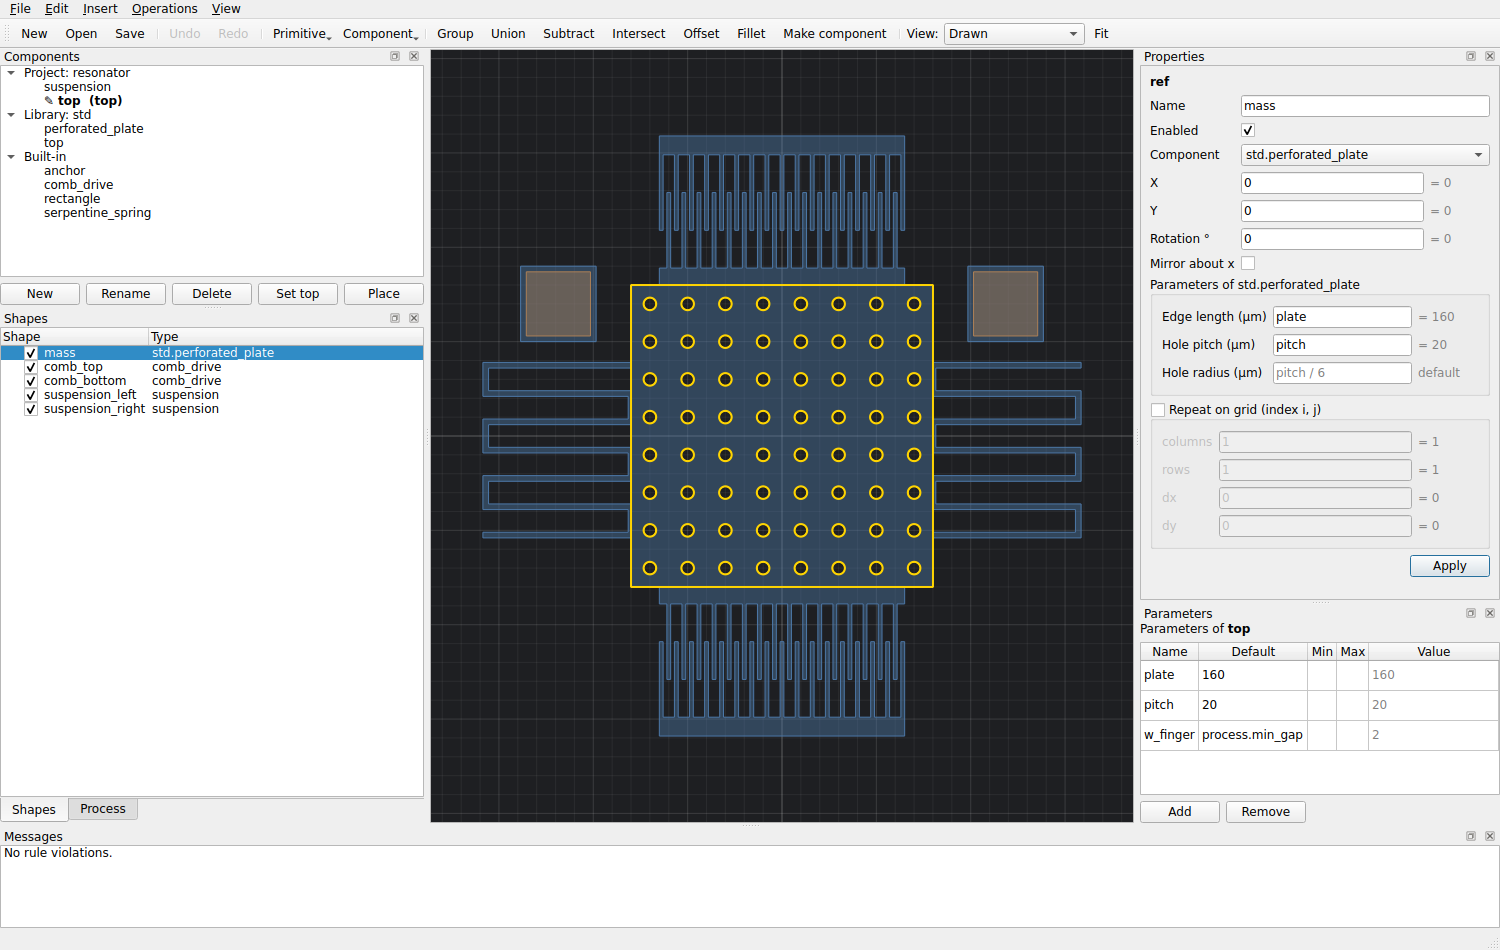
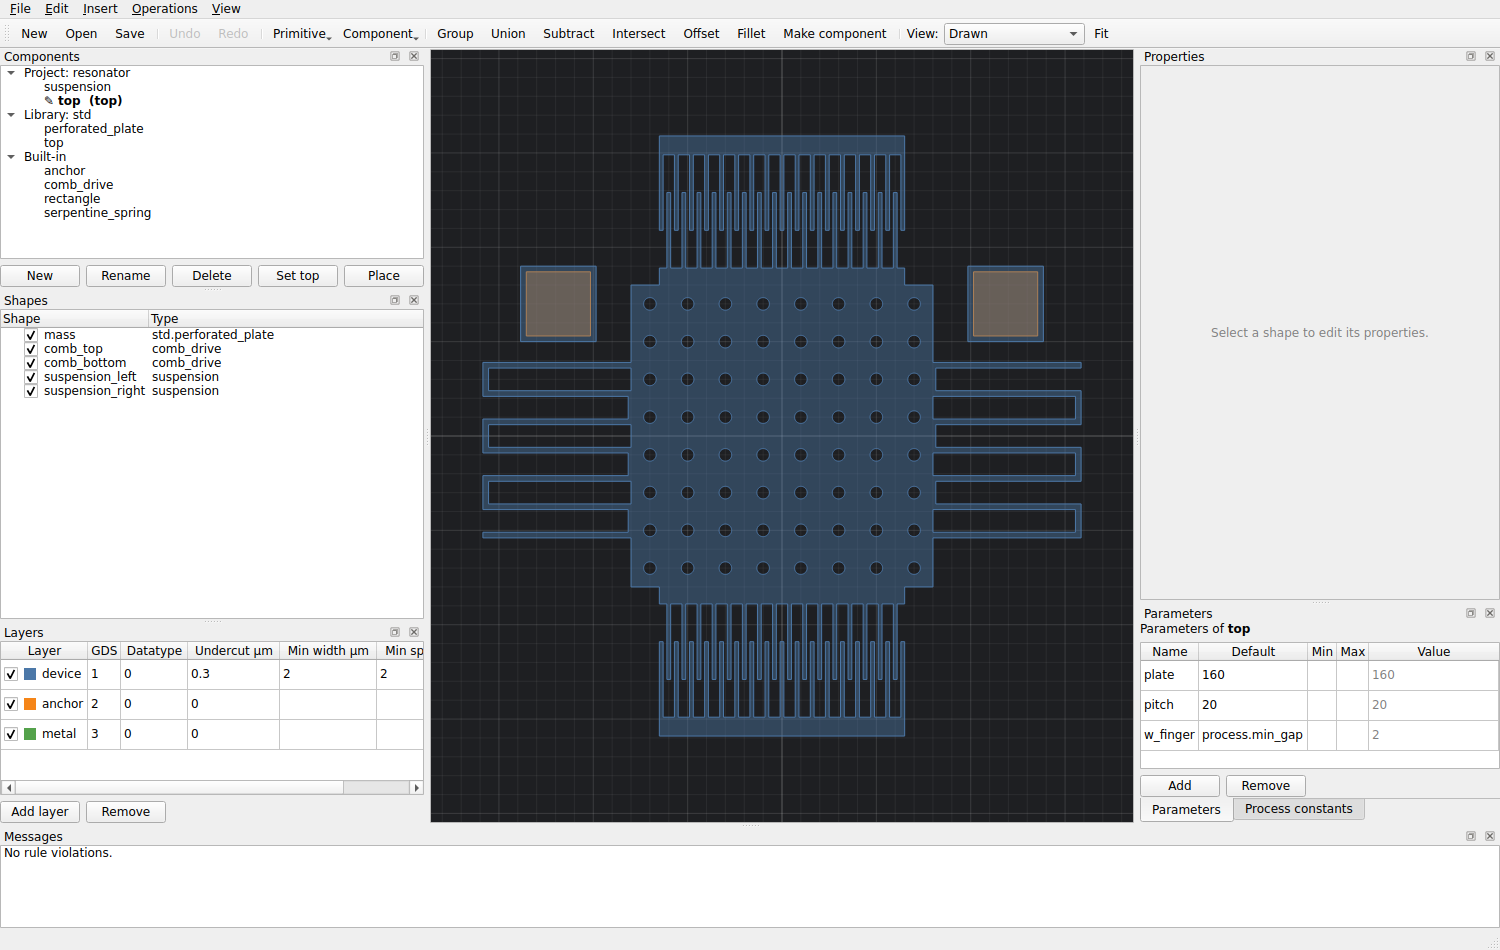
Show the Layers panel again and add View > Panels
The layers table had been merged into a Process dock tabbed behind Shapes,
so it looked like it was gone. Layers is its own dock again under Shapes,
process constants get their own dock tabbed with Parameters, and
View > Panels reopens any closed panel.

Claude-Session: https://claude.ai/code/session_01JBCp9RdUb4Pgf4s5iHcgZo

diff --git a/src/mems_sketch/gui/panels.py b/src/mems_sketch/gui/panels.py
@@ -358,8 +358,8 @@ class ParametersPanel(_Panel):
 # -- process -------------------------------------------------------------------
 
 
-class ProcessPanel(_Panel):
-    """Process layers (visibility, colour, GDS mapping, etch loss, rules) and constants."""
+class LayersPanel(_Panel):
+    """Process layers: visibility, colour, GDS mapping, etch loss and rules."""
 
     visibility_changed = Signal(str, bool)
     LAYER_COLUMNS = ["Layer", "GDS", "Datatype", "Undercut µm", "Min width µm", "Min space µm"]
@@ -371,29 +371,19 @@ class ProcessPanel(_Panel):
         self.colors: dict[str, QColor] = {}
         self.layers = _table(self.LAYER_COLUMNS)
         self.layers.itemChanged.connect(self._layer_changed)
-        self.constants = _table(["Constant", "Expression", "Value"])
-        self.constants.itemChanged.connect(self._constant_changed)
         add_layer, remove_layer = QPushButton("Add layer"), QPushButton("Remove")
         add_layer.clicked.connect(lambda: self._guard(self.document.add_layer))
         remove_layer.clicked.connect(self._remove_layers)
-        add_const, remove_const = QPushButton("Add constant"), QPushButton("Remove")
-        add_const.clicked.connect(lambda: self._guard(self.document.add_constant))
-        remove_const.clicked.connect(self._remove_constants)
         layout = QVBoxLayout(self)
         layout.setContentsMargins(0, 0, 0, 0)
-        layout.addWidget(self.layers, 3)
+        layout.addWidget(self.layers)
         layout.addLayout(_button_row(add_layer, remove_layer))
-        layout.addWidget(QLabel(" Constants (use as process.<name>)"))
-        layout.addWidget(self.constants, 2)
-        layout.addLayout(_button_row(add_const, remove_const))
         self._layer_names: list[str] = []
-        self._constant_names: list[str] = []
 
     def refresh(self) -> None:
         from mems_sketch.gui.canvas import layer_color
 
-        project = self.document.project
-        layers = project.layers
+        layers = self.document.project.layers
         self._layer_names = list(layers)
         self.colors = {name: layer_color(i) for i, name in enumerate(layers)}
         self.layers.blockSignals(True)
@@ -417,21 +407,6 @@ class ProcessPanel(_Panel):
             swatch.fill(self.colors[layer.name])
             name_cell.setIcon(QIcon(swatch))
         self.layers.blockSignals(False)
-
-        constants = project.process.constants
-        try:
-            values = resolve_variables(constants)
-        except (ExpressionError, ZeroDivisionError, ValueError):
-            values = {}
-        self._constant_names = list(constants)
-        self.constants.blockSignals(True)
-        self.constants.setRowCount(len(constants))
-        for row, (name, expression) in enumerate(constants.items()):
-            value = values.get(name)
-            self.constants.setItem(row, 0, QTableWidgetItem(name))
-            self.constants.setItem(row, 1, QTableWidgetItem(_format(expression)))
-            self.constants.setItem(row, 2, _readonly("error" if value is None else f"{value:g}"))
-        self.constants.blockSignals(False)
 
     def _layer_changed(self, item: QTableWidgetItem) -> None:
         name = self._layer_names[item.row()]
@@ -465,6 +440,47 @@ class ProcessPanel(_Panel):
         if not self._guard(apply):
             self.refresh()
 
+    def _remove_layers(self) -> None:
+        rows = sorted({i.row() for i in self.layers.selectedItems()}, reverse=True)
+        for row in rows:
+            self._guard(lambda n=self._layer_names[row]: self.document.remove_layer(n))
+
+
+class ConstantsPanel(_Panel):
+    """Process constants, available in every expression as ``process.<name>``."""
+
+    def __init__(self, document: ProjectDocument) -> None:
+        super().__init__()
+        self.document = document
+        self.constants = _table(["Constant", "Expression", "Value"])
+        self.constants.itemChanged.connect(self._constant_changed)
+        add_const, remove_const = QPushButton("Add constant"), QPushButton("Remove")
+        add_const.clicked.connect(lambda: self._guard(self.document.add_constant))
+        remove_const.clicked.connect(self._remove_constants)
+        layout = QVBoxLayout(self)
+        layout.setContentsMargins(0, 0, 0, 0)
+        layout.addWidget(QLabel(" Use in expressions as process.<name>"))
+        layout.addWidget(self.constants)
+        layout.addLayout(_button_row(add_const, remove_const))
+        self._constant_names: list[str] = []
+
+    def refresh(self) -> None:
+        project = self.document.project
+        constants = project.process.constants
+        try:
+            values = resolve_variables(constants)
+        except (ExpressionError, ZeroDivisionError, ValueError):
+            values = {}
+        self._constant_names = list(constants)
+        self.constants.blockSignals(True)
+        self.constants.setRowCount(len(constants))
+        for row, (name, expression) in enumerate(constants.items()):
+            value = values.get(name)
+            self.constants.setItem(row, 0, QTableWidgetItem(name))
+            self.constants.setItem(row, 1, QTableWidgetItem(_format(expression)))
+            self.constants.setItem(row, 2, _readonly("error" if value is None else f"{value:g}"))
+        self.constants.blockSignals(False)
+
     def _constant_changed(self, item: QTableWidgetItem) -> None:
         name = self._constant_names[item.row()]
         text = item.text().strip()
@@ -477,11 +493,6 @@ class ProcessPanel(_Panel):
 
         if not self._guard(apply):
             self.refresh()
-
-    def _remove_layers(self) -> None:
-        rows = sorted({i.row() for i in self.layers.selectedItems()}, reverse=True)
-        for row in rows:
-            self._guard(lambda n=self._layer_names[row]: self.document.remove_layer(n))
 
     def _remove_constants(self) -> None:
         rows = sorted({i.row() for i in self.constants.selectedItems()}, reverse=True)

diff --git a/src/mems_sketch/gui/app.py b/src/mems_sketch/gui/app.py
@@ -32,9 +32,10 @@ from mems_sketch.gui.canvas import LayoutCanvas
 from mems_sketch.gui.document import VIEW_MODES, ProjectDocument
 from mems_sketch.gui.panels import (
     ComponentsPanel,
+    ConstantsPanel,
+    LayersPanel,
     MessagesPanel,
     ParametersPanel,
-    ProcessPanel,
     ShapeTree,
 )
 from mems_sketch.gui.properties import PropertyEditor
@@ -76,7 +77,8 @@ class MainWindow(QMainWindow):
         self.tree = ShapeTree(self.document)
         self.properties = PropertyEditor(self.document)
         self.parameters = ParametersPanel(self.document)
-        self.process = ProcessPanel(self.document)
+        self.layers = LayersPanel(self.document)
+        self.constants = ConstantsPanel(self.document)
         self.messages = MessagesPanel()
         self._build_docks()
 
@@ -95,9 +97,15 @@ class MainWindow(QMainWindow):
         self.canvas.cursor_moved.connect(
             lambda x, y: self.coordinates.setText(f"x {x:.3f} µm   y {y:.3f} µm")
         )
-        self.process.visibility_changed.connect(self.canvas.set_layer_visible)
+        self.layers.visibility_changed.connect(self.canvas.set_layer_visible)
         self.messages.zoom_requested.connect(self._zoom_to_bbox)
-        for panel in (self.properties, self.parameters, self.process, self.components):
+        for panel in (
+            self.properties,
+            self.parameters,
+            self.layers,
+            self.constants,
+            self.components,
+        ):
             panel.error.connect(self.report_error)
 
         self.resize(1500, 950)
@@ -117,14 +125,15 @@ class MainWindow(QMainWindow):
         left, right = Qt.DockWidgetArea.LeftDockWidgetArea, Qt.DockWidgetArea.RightDockWidgetArea
         components = self._dock("Components", self.components, left)
         shapes = self._dock("Shapes", self.tree, left)
-        process = self._dock("Process", self.process, left)
-        self.tabifyDockWidget(shapes, process)
-        shapes.raise_()
+        layers = self._dock("Layers", self.layers, left)
         properties = self._dock("Properties", self.properties, right)
         parameters = self._dock("Parameters", self.parameters, right)
+        constants = self._dock("Process constants", self.constants, right)
+        self.tabifyDockWidget(parameters, constants)
+        parameters.raise_()
         messages = self._dock("Messages", self.messages, Qt.DockWidgetArea.BottomDockWidgetArea)
         vertical, horizontal = Qt.Orientation.Vertical, Qt.Orientation.Horizontal
-        self.resizeDocks([components, shapes], [260, 520], vertical)
+        self.resizeDocks([components, shapes, layers], [240, 330, 200], vertical)
         self.resizeDocks([properties, parameters], [560, 220], vertical)
         self.resizeDocks([shapes, properties], [320, 360], horizontal)
         self.resizeDocks([messages], [110], vertical)
@@ -184,6 +193,9 @@ class MainWindow(QMainWindow):
         self._action("Fit", self.canvas.fit, "F", view)
         self._action("Recompile and check", self.refresh, "F5", view)
         self._action("Edit top component", self._edit_top, "Ctrl+T", view)
+        panels = view.addMenu("Panels")
+        for dock in self.findChildren(QDockWidget):
+            panels.addAction(dock.toggleViewAction())
 
         tools = self.addToolBar("Main")
         tools.setObjectName("main-toolbar")
@@ -242,11 +254,12 @@ class MainWindow(QMainWindow):
             self._violations = []
             self._errors.append(str(exc))
         self._errors += [p for p in self.document.problems() if p not in self._errors]
-        self.process.refresh()
+        self.layers.refresh()
+        self.constants.refresh()
         self.parameters.refresh()
         self.components.refresh()
-        self._node_regions = self.document.node_regions(self.process.visible)
-        self.canvas.show_geometry(geometry, self.process.colors, self.process.visible)
+        self._node_regions = self.document.node_regions(self.layers.visible)
+        self.canvas.show_geometry(geometry, self.layers.colors, self.layers.visible)
         if self._shown_component != self.document.active:
             self._shown_component = self.document.active
             self.canvas.fit()

diff --git a/tests/test_gui_window.py b/tests/test_gui_window.py
@@ -5,7 +5,7 @@ import pytest
 
 pytest.importorskip("PySide6")
 
-from PySide6.QtWidgets import QInputDialog, QLineEdit, QMessageBox  # noqa: E402
+from PySide6.QtWidgets import QDockWidget, QInputDialog, QLineEdit, QMessageBox  # noqa: E402
 
 from mems_sketch.gui.app import MainWindow  # noqa: E402
 
@@ -100,3 +100,18 @@ def test_undo_restores_tree_and_view_mode_switch(window):
     assert window.tree.topLevelItemCount() == 1
     window.mode_box.setCurrentIndex(1)
     assert window.view_mode == "etched"
+
+
+def test_layers_panel_is_shown_on_its_own_and_every_panel_can_be_reopened(window):
+    docks = {d.windowTitle(): d for d in window.findChildren(QDockWidget)}
+    layers = docks["Layers"]
+    assert not layers.visibleRegion().isEmpty()  # not hidden behind another tab
+    assert window.tabifiedDockWidgets(layers) == []
+    assert window.layers.layers.rowCount() == len(window.document.project.layers)
+
+    layers.close()
+    panels = next(a.menu() for a in window.menuBar().actions() if a.text() == "&View")
+    panels = next(a.menu() for a in panels.actions() if a.text() == "Panels")
+    reopen = next(a for a in panels.actions() if a.text() == "Layers")
+    reopen.trigger()
+    assert layers.isVisible()

diff --git a/README.md b/README.md
@@ -114,8 +114,11 @@ MATLAB with `system(...)`.
   defaults as placeholders.
 - **Parameters**: the edited component's parameters: default (number or
   expression), min, max and the resolved value.
-- **Process**: layers (visibility, colour, GDS numbers, undercut, minimum
-  width and spacing) and process constants.
+- **Layers**: visibility, colour, GDS numbers, undercut, minimum width and
+  spacing.
+- **Process constants** (tabbed with Parameters): values available in every
+  expression as `process.<name>`.
+- **View → Panels** reopens any panel that was closed.
 - **Operations** (Group, Union, Subtract, Intersect, XOR, Offset, Fillet, Layer
   map) wrap the selected sibling shapes in a new operation node; **Edit →
   Unwrap** reverses it. **Make component** (Ctrl+K) moves the selection into a
